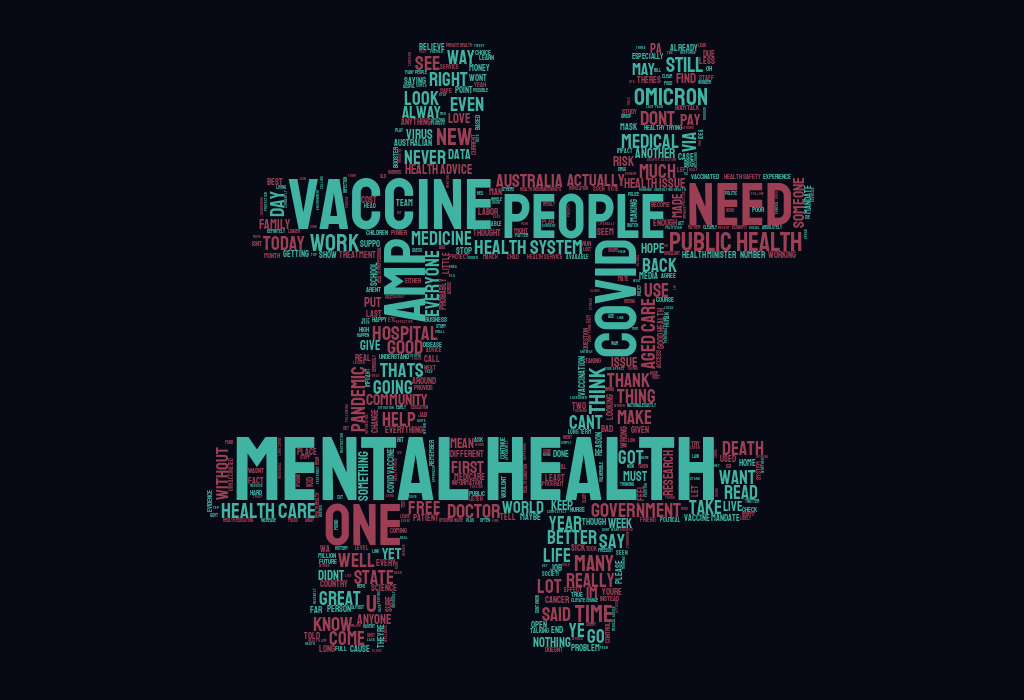
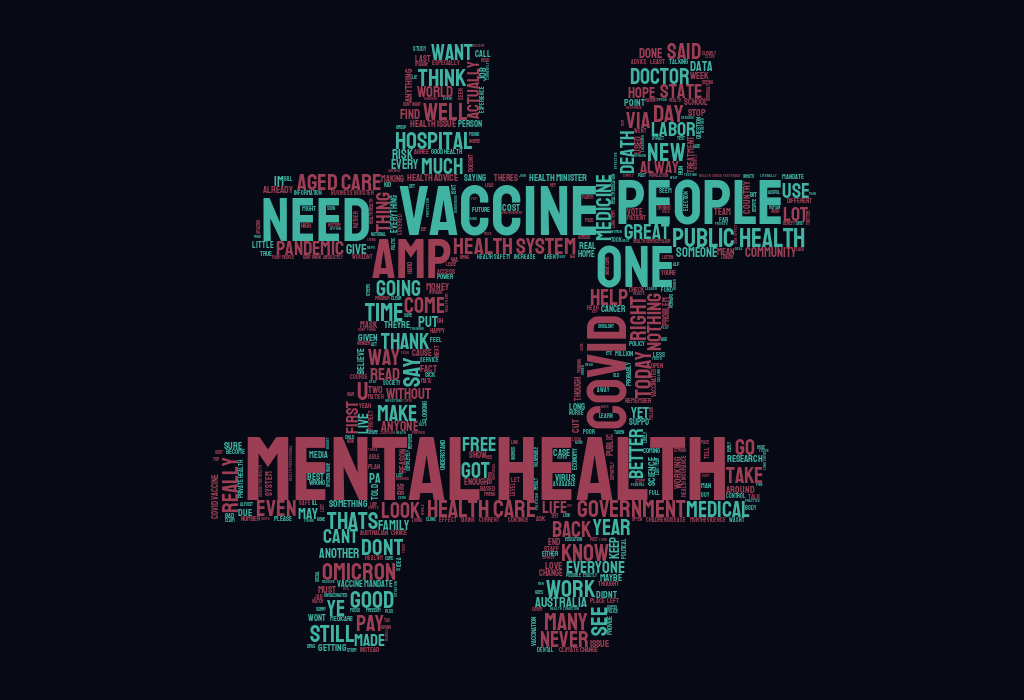
Updated

Changed region(s): [[0.1875, 0.06, 0.8125, 0.93]]

diff --git a/assets/style.css b/assets/style.css
@@ -221,7 +221,7 @@
 
 .element  {
   display: inline-block;
-  font-size: 1.75rem;
+  font-size: 1.45rem;
   white-space: pre-wrap;
 }
 .pre {

diff --git a/dashboard.py b/dashboard.py
@@ -152,7 +152,7 @@ neg_df = pd.DataFrame(list(negative_intensity))
 neg_df['freq'] = neg_df[0].apply(lambda x: dict(total_counts)[x])
 
 # del total_counts
-neg_df = neg_df.iloc[:20, :].set_index(0)
+neg_df = neg_df.iloc[:10, :].set_index(0)
 
 neg_df = neg_df.reset_index( )
 
@@ -162,9 +162,9 @@ pos_df['freq'] = pos_df[0].apply(
 
 stylecloud.gen_stylecloud(' '.join(positive_tweets + negative_tweets + neutral_tweets), colors=['#41B3A3', '#9d3f54'], size=(1024, 700),
                           background_color='#070914', icon_name='fas fa-hashtag', output_name='./assets/pos_cloud.png')
-
-# print(pos_df)
-# print(neg_df)
+pos_df = pos_df.iloc[:10, :]
+print(pos_df)
+print(neg_df)
 
 def update_graph(df, color_name, tweet):
     fig_Heterogeneity = px.choropleth_mapbox(df,
